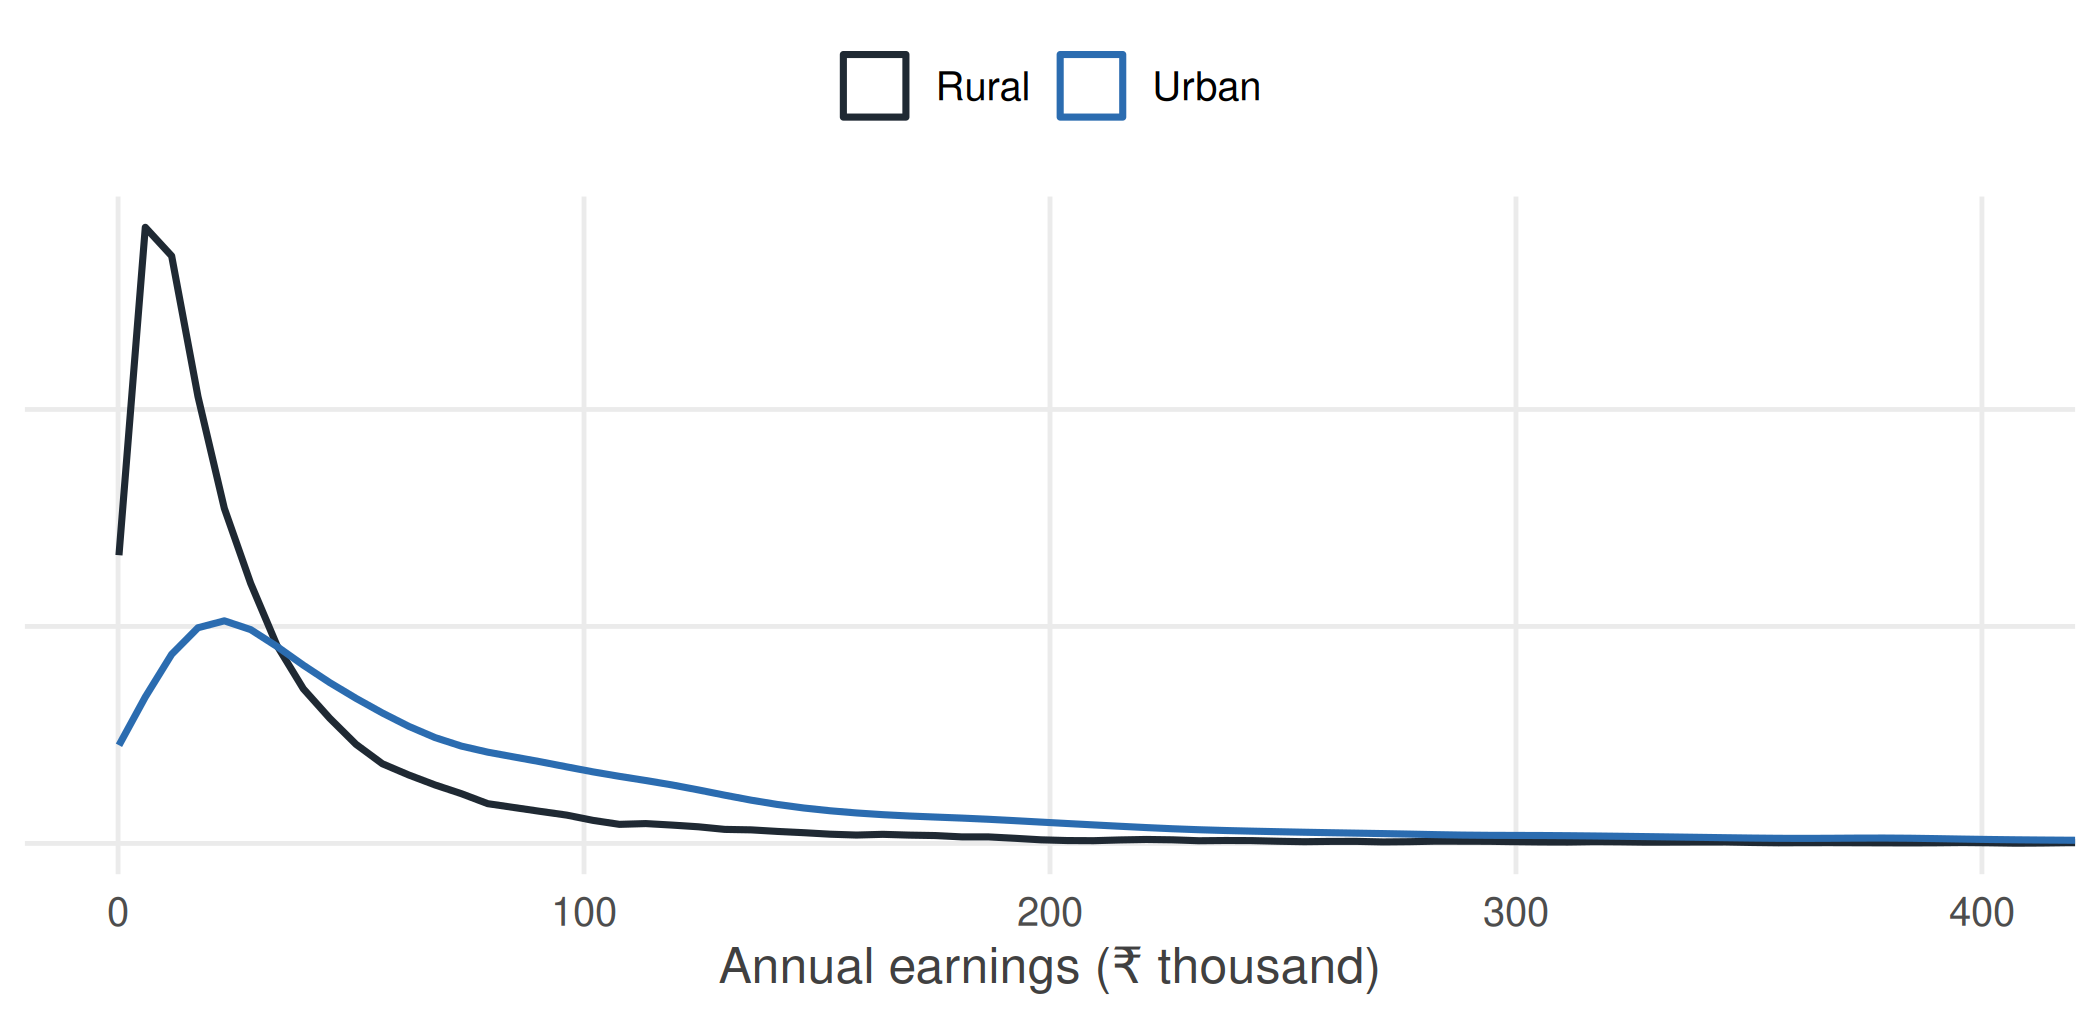
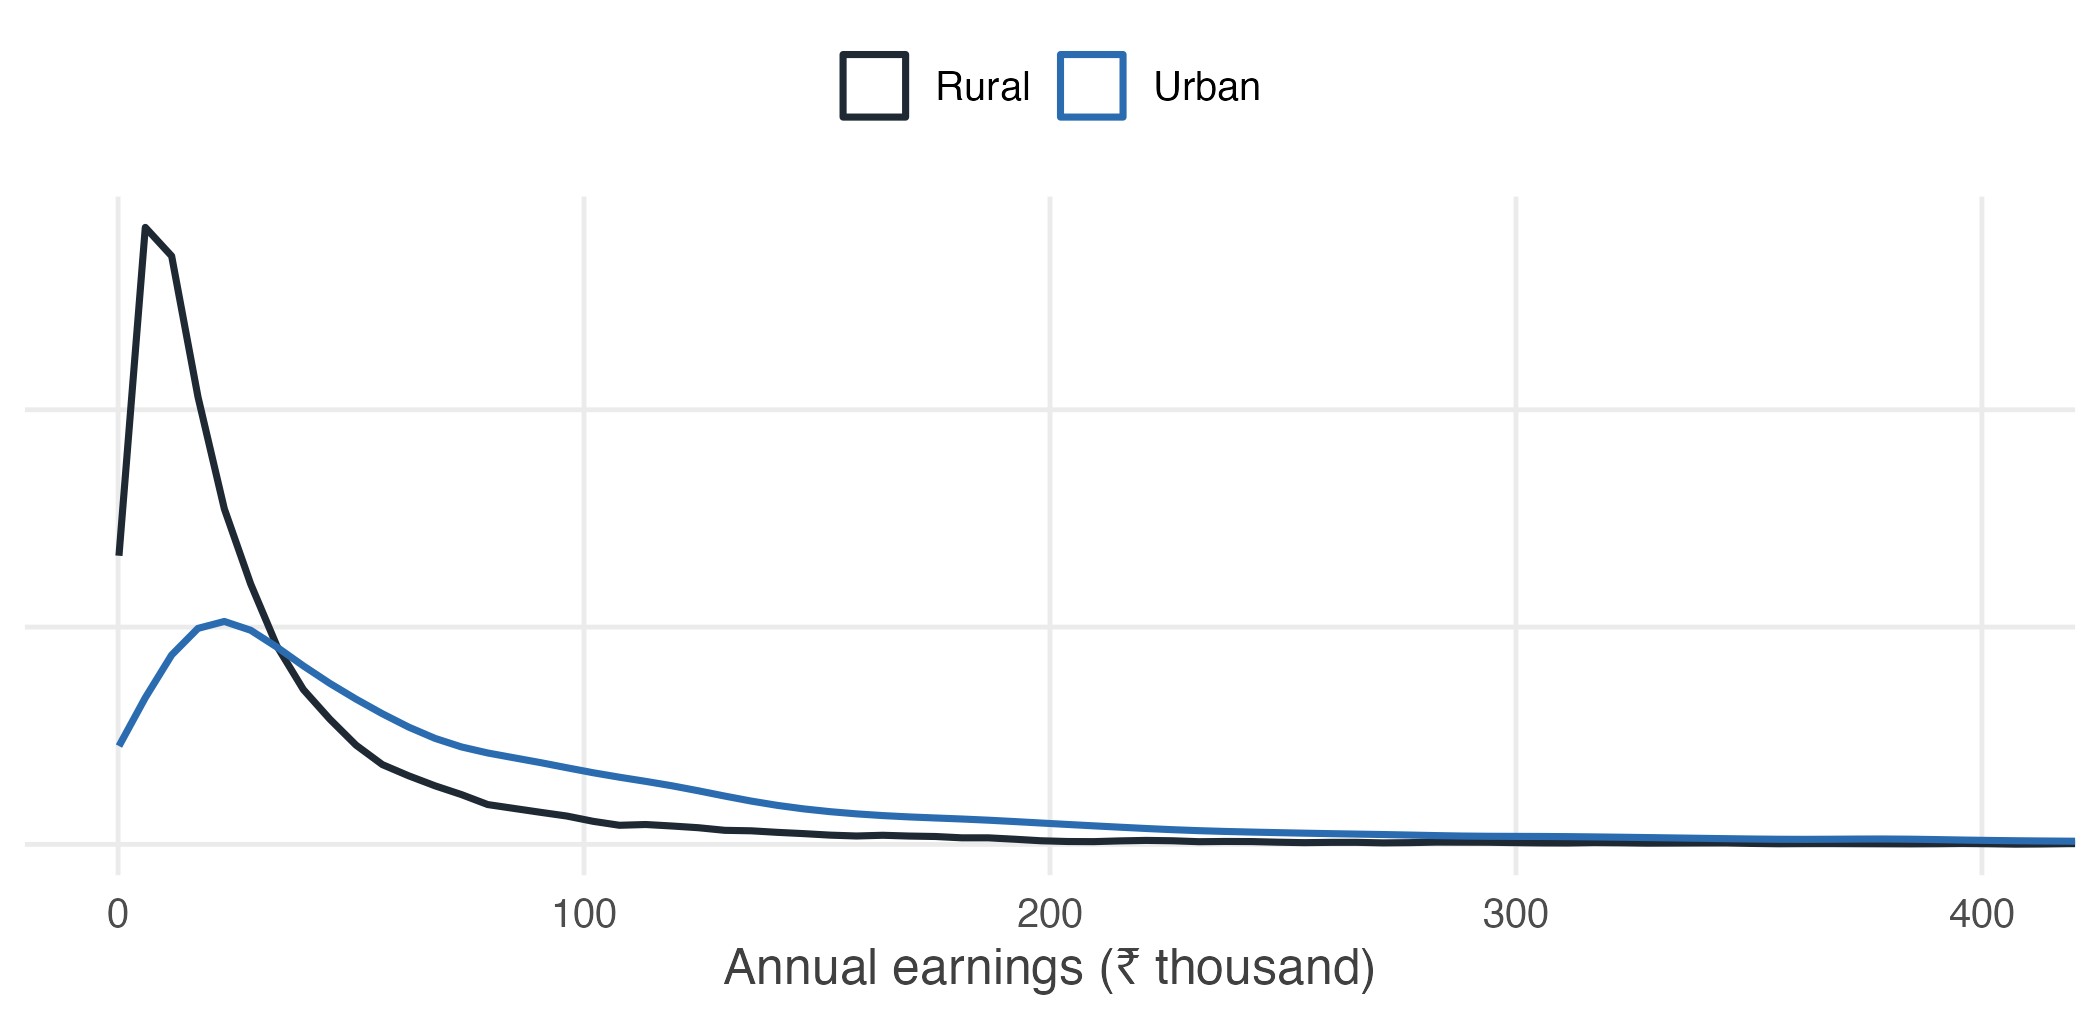
Drop "estimator" from 1.4 and plant the sampling-distribution seed
"Estimator" belongs with point estimation, not here. The passage now says we
are studying the behaviour of the sample mean -- "statistic" being a word the
reader has been using since 1.2, so the distinction costs no vocabulary.

Adds that every statistic has a sampling distribution, not only the mean.
Students otherwise leave with the impression that "the sampling distribution"
names a single object.

The closing now says what the two theorems are for -- they explain why a
single sample can provide reliable information about an entire population --
rather than merely announcing that they are coming.

Verified that estimator, unbiased, i.i.d., expectation, random variable,
parameter and standard error now appear nowhere before the section that
defines them.

diff --git a/docs/u1-frequentist.html b/docs/u1-frequentist.html
@@ -291,28 +291,28 @@ values are possible, but they are uncommon.</p>
 earnings of individual workers are highly skewed, the distribution of the
 sample means is much more symmetric and concentrated.</p>
 <p>The thousand means are not just a collection of numbers. They form a
-distribution of their own. Notice what this distribution is describing. It is
-not the earnings of workers — those were the observations in our original
-dataset. Instead, it describes the values taken by the sample mean when the
-sampling process is repeated. The object of interest has changed. We are no
-longer studying workers; we are studying an estimator.</p>
-<div class="keyidea">
-<p>This distinction is the key to statistical inference. The original distribution
-tells us about the variability in earnings across individuals. The new
-distribution tells us about the variability in our estimate of the population
-mean.</p>
-<p>It is this second source of variation that determines how much confidence we
-should place in the average computed from a single survey.</p>
-</div>
+distribution of their own. Notice what this distribution describes. It is not
+the distribution of workers’ earnings — that was the distribution we began
+with. Instead, it is the distribution of the sample mean obtained by repeating
+the survey many times. The object of interest has changed. We are no longer
+studying individual workers; we are studying the behaviour of the sample mean.</p>
+<p>This distinction lies at the heart of inferential statistics. The original
+distribution describes the variability in earnings across workers. The new
+distribution describes the variability in the sample mean across repeated
+samples. It is this second source of variation that determines how much
+confidence we should place in the average computed from a single survey.</p>
 <p>The distribution formed by a statistic over repeated samples is called its
-<strong>sampling distribution</strong>. It is one of the central ideas in statistics because
-it connects the data we observe to the population we wish to understand.</p>
+<strong>sampling distribution</strong>. Every statistic has a sampling distribution: the
+mean, the median, the standard deviation, and many others. In this chapter we
+focus on the sampling distribution of the sample mean because it provides the
+foundation for much of statistical inference.</p>
 <p>Two features of Figure <a href="u1-frequentist.html#fig:u1-many-plot">1.5</a> are too striking to ignore.
 First, the sample means are tightly concentrated around the population mean.
-Second, despite the strong skewness of individual earnings, the sampling
-distribution is almost bell-shaped. These are not accidents. They are
-consequences of two remarkable mathematical results — the Law of Large Numbers
-and the Central Limit Theorem — which we study next.</p>
+Second, despite the strong skewness of individual earnings, their sampling
+distribution is almost bell-shaped. Neither feature is a coincidence. Both are
+consequences of two fundamental results in probability theory: the Law of Large
+Numbers and the Central Limit Theorem. Together, these results explain why a
+single sample can provide reliable information about an entire population.</p>
 </div>
 <script>
 // Solutions are written as plain fenced divs in the source, so the PDF edition
